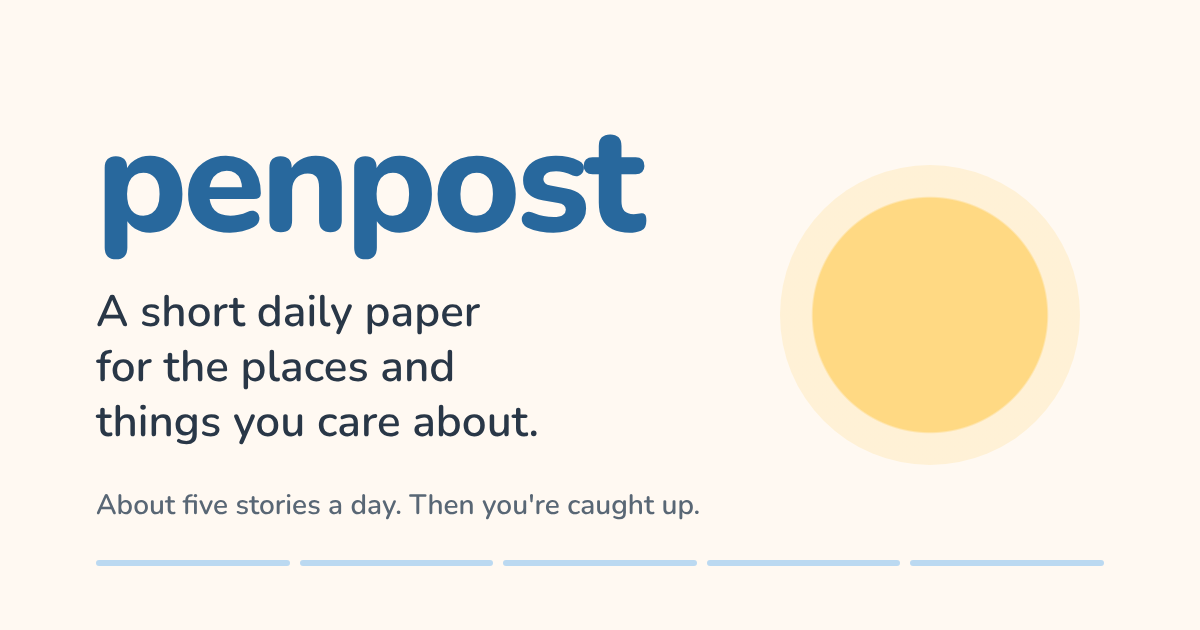
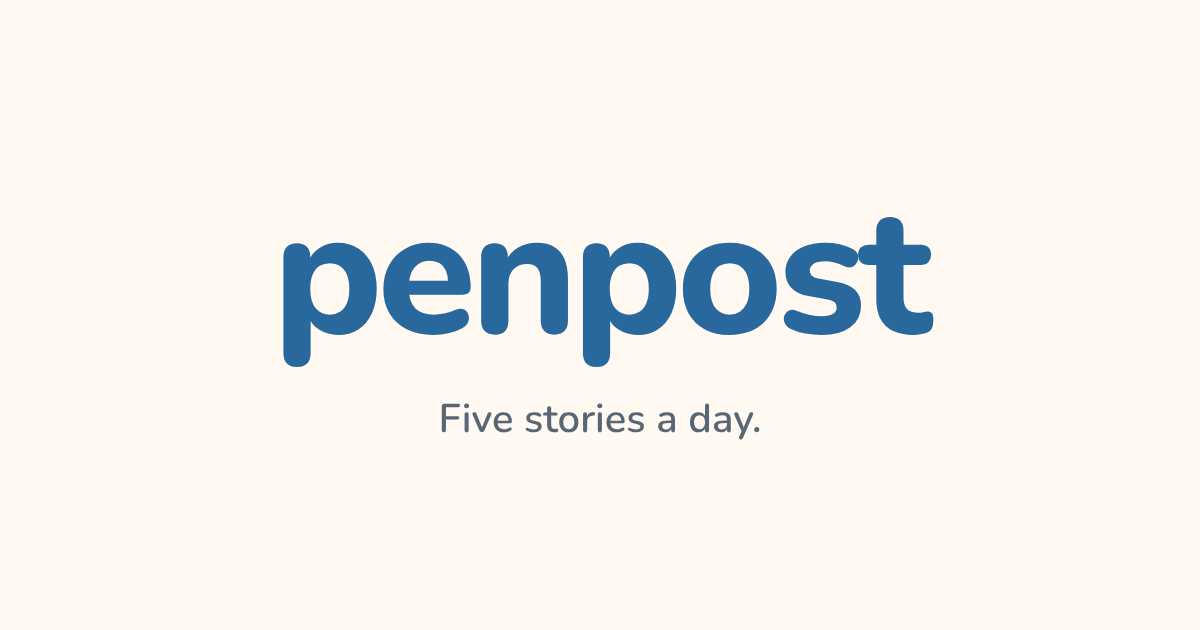
Simplify the share image: wordmark and one line
Claude-Session: https://claude.ai/code/session_01SseMp8HUdUxHc697WpEdwG

diff --git a/index.html b/index.html
@@ -11,16 +11,16 @@
     <meta property="og:type" content="website" />
     <meta property="og:url" content="https://penpost.co/" />
     <meta property="og:title" content="penpost" />
-    <meta property="og:description" content="A short daily paper for the places and things you care about. About five stories a day, then you're caught up." />
+    <meta property="og:description" content="Five stories a day, picked for your places and interests." />
     <meta property="og:image" content="https://penpost.co/og-image.png" />
     <meta property="og:image:width" content="1200" />
     <meta property="og:image:height" content="630" />
-    <meta property="og:image:alt" content="penpost: a short daily paper for the places and things you care about." />
+    <meta property="og:image:alt" content="penpost. Five stories a day." />
     <meta name="twitter:card" content="summary_large_image" />
     <meta name="twitter:title" content="penpost" />
-    <meta name="twitter:description" content="A short daily paper for the places and things you care about. About five stories a day, then you're caught up." />
+    <meta name="twitter:description" content="Five stories a day, picked for your places and interests." />
     <meta name="twitter:image" content="https://penpost.co/og-image.png" />
-    <meta name="twitter:image:alt" content="penpost: a short daily paper for the places and things you care about." />
+    <meta name="twitter:image:alt" content="penpost. Five stories a day." />
     <link rel="preconnect" href="https://fonts.googleapis.com" />
     <link rel="preconnect" href="https://fonts.gstatic.com" crossorigin />
     <link href="https://fonts.googleapis.com/css2?family=Nunito:wght@400;600;700;800&display=swap" rel="stylesheet" />
